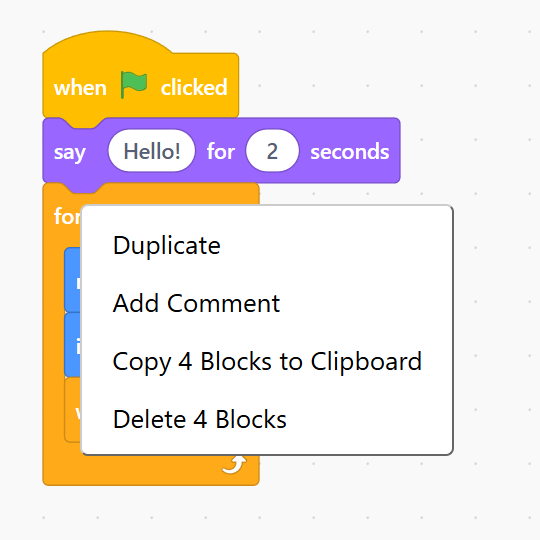
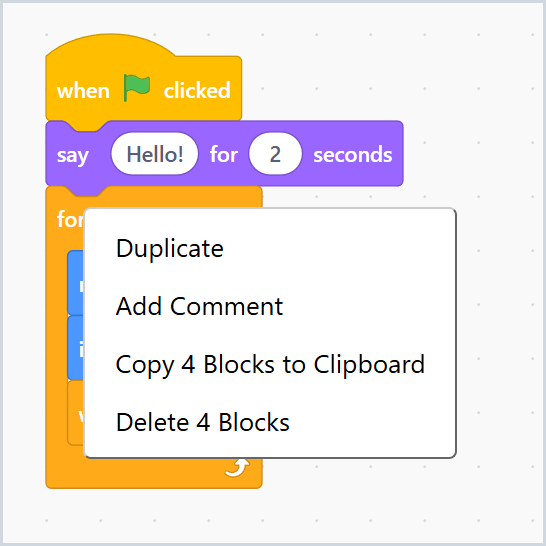
docs: point readme at the live site and frame screenshots

diff --git a/README.md b/README.md
@@ -4,6 +4,8 @@ Clean pictures of Scratch code, ready for your slides and worksheets.
 
 Snap Scratch 3 blocks together exactly as you would in Scratch, then copy them to your clipboard as a transparent PNG trimmed to the blocks. Paste straight into Google Slides, PowerPoint, Word or Docs. No screenshots, no cropping, no stray backgrounds.
 
+**[Open PNG blocks!](https://pngblocks.netlify.app)** It runs in your browser, with nothing to install or sign up for.
+
 ![The PNG blocks! window: a Scratch script on the canvas with the block palette on the left](docs/images/window.png)
 
 ## What you get
@@ -37,21 +39,6 @@ Right-click any block and choose **Copy Block to Clipboard** to grab that block 
 - **Tutorial.** A short guided tour plays on your first visit. Replay it any time with the graduation cap button.
 
 ![Dark mode with the Pen extension open](docs/images/dark.png)
-
-## Running PNG blocks!
-
-PNG blocks! runs in your browser. To start it on your own computer, install [Node.js](https://nodejs.org) and [Yarn](https://classic.yarnpkg.com), then run:
-
-```
-git clone https://github.com/wpinrui/png-blocks.git
-cd png-blocks
-yarn
-yarn dev
-```
-
-Open the address it prints, usually http://localhost:5173.
-
-To host it yourself, run `yarn build` and upload the `dist/` folder to any static web host.
 
 ## Crediting Scratch
 
